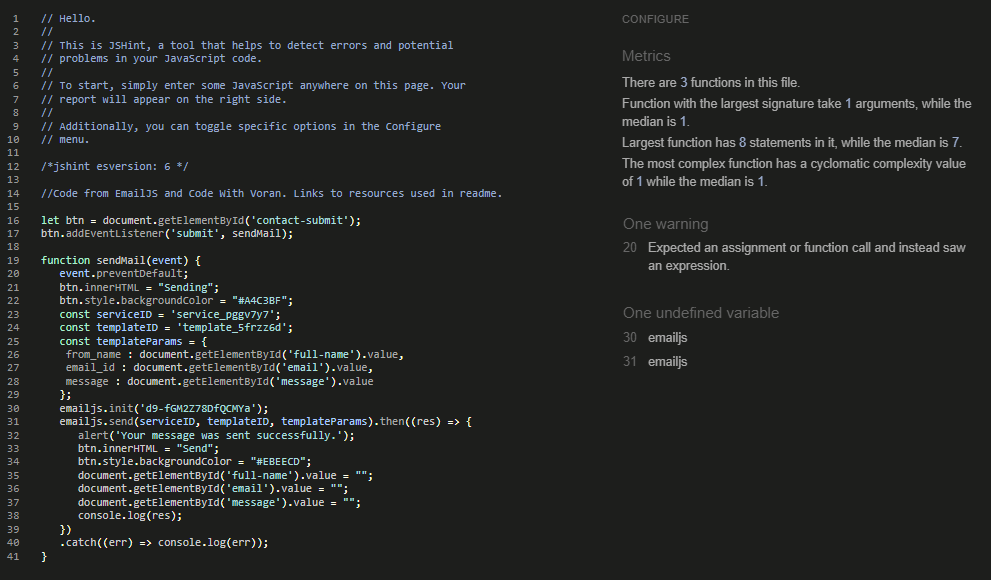
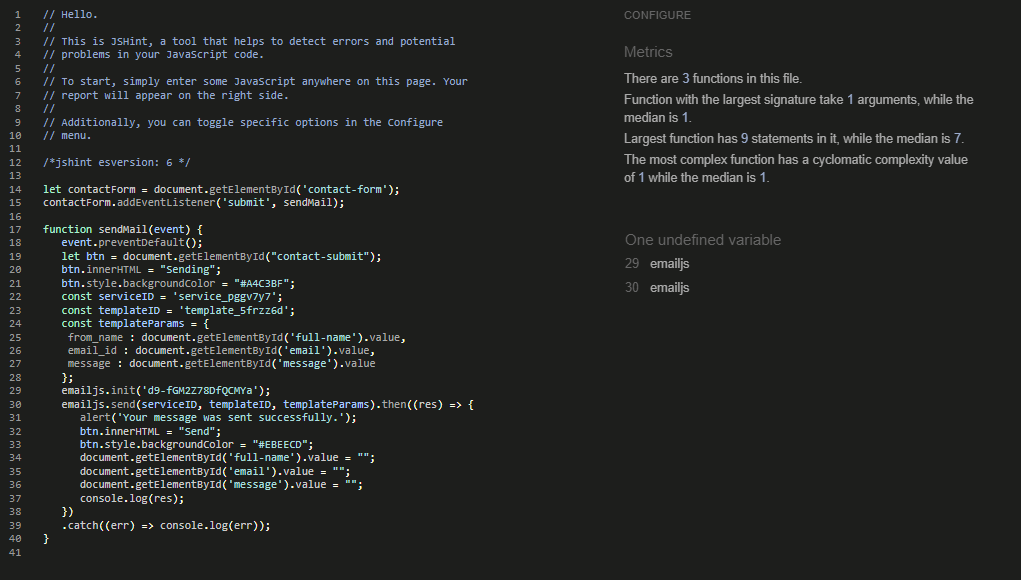
Replace jshint contact screenshot with bug-fixed version.

diff --git a/assets/js/contact_form.js b/assets/js/contact_form.js
@@ -1,10 +1,11 @@
 //Code from EmailJS and Code With Voran. Links to resources used in readme.
 
-let btn = document.getElementById('contact-submit');
-btn.addEventListener('submit', sendMail);
+let contactForm = document.getElementById('contact-form');
+contactForm.addEventListener('submit', sendMail);
 
 function sendMail(event) {
-   event.preventDefault;
+   event.preventDefault();
+   let btn = document.getElementById("contact-submit");
    btn.innerHTML = "Sending";
    btn.style.backgroundColor = "#A4C3BF";
    const serviceID = 'service_pggv7y7';
